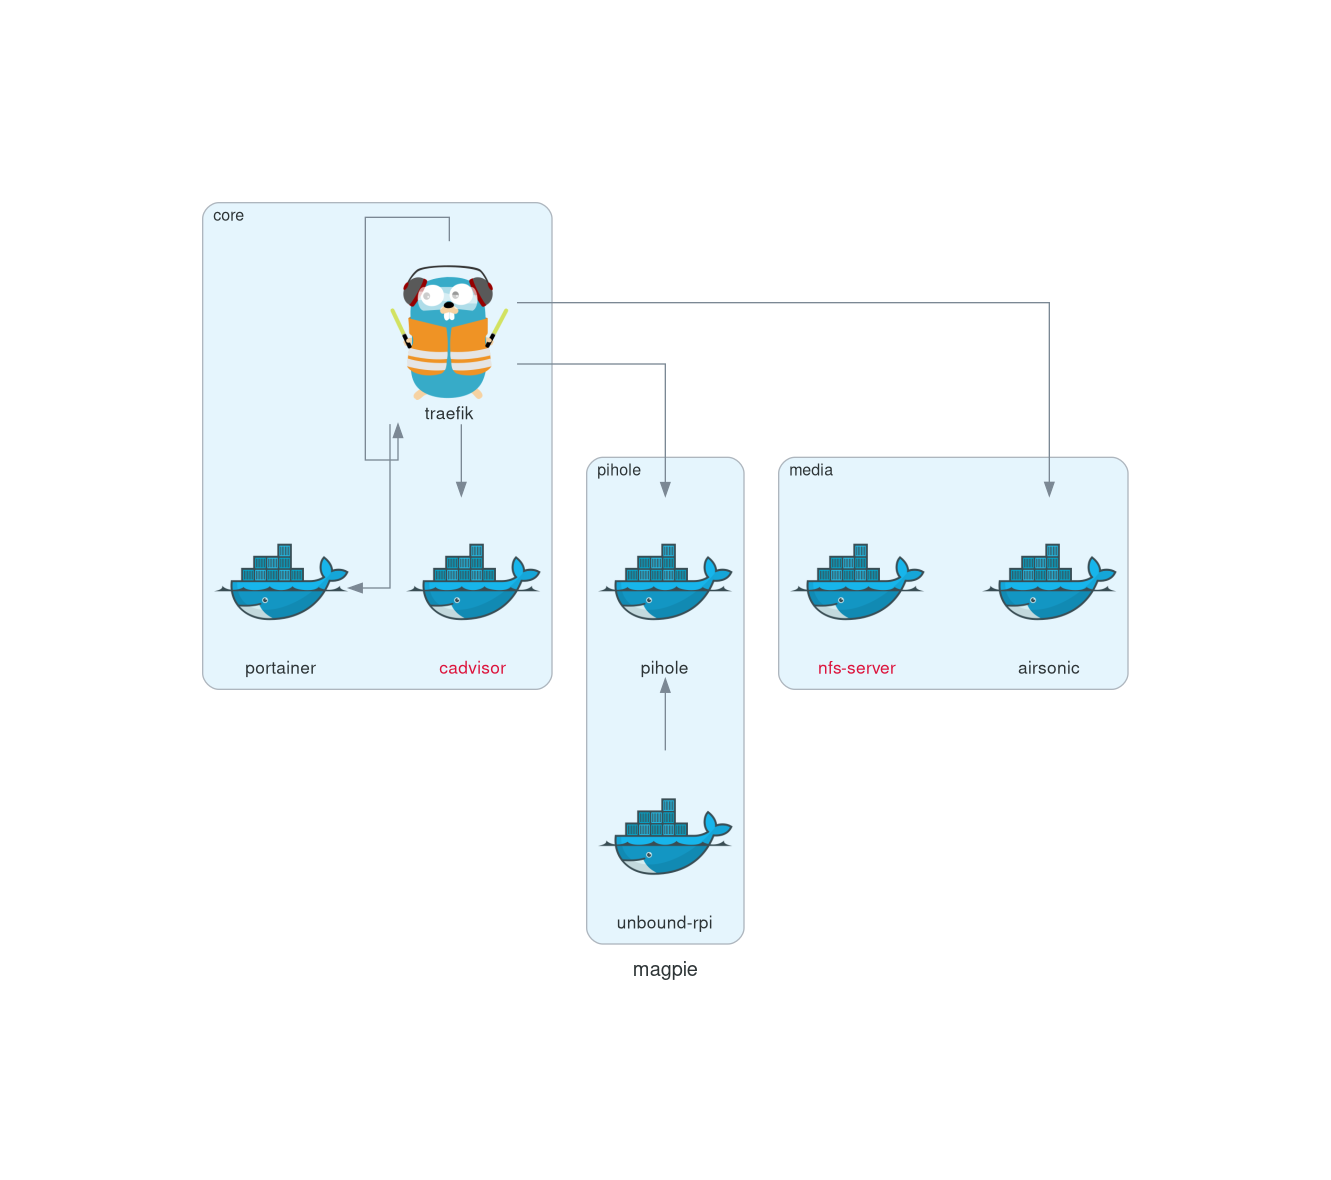
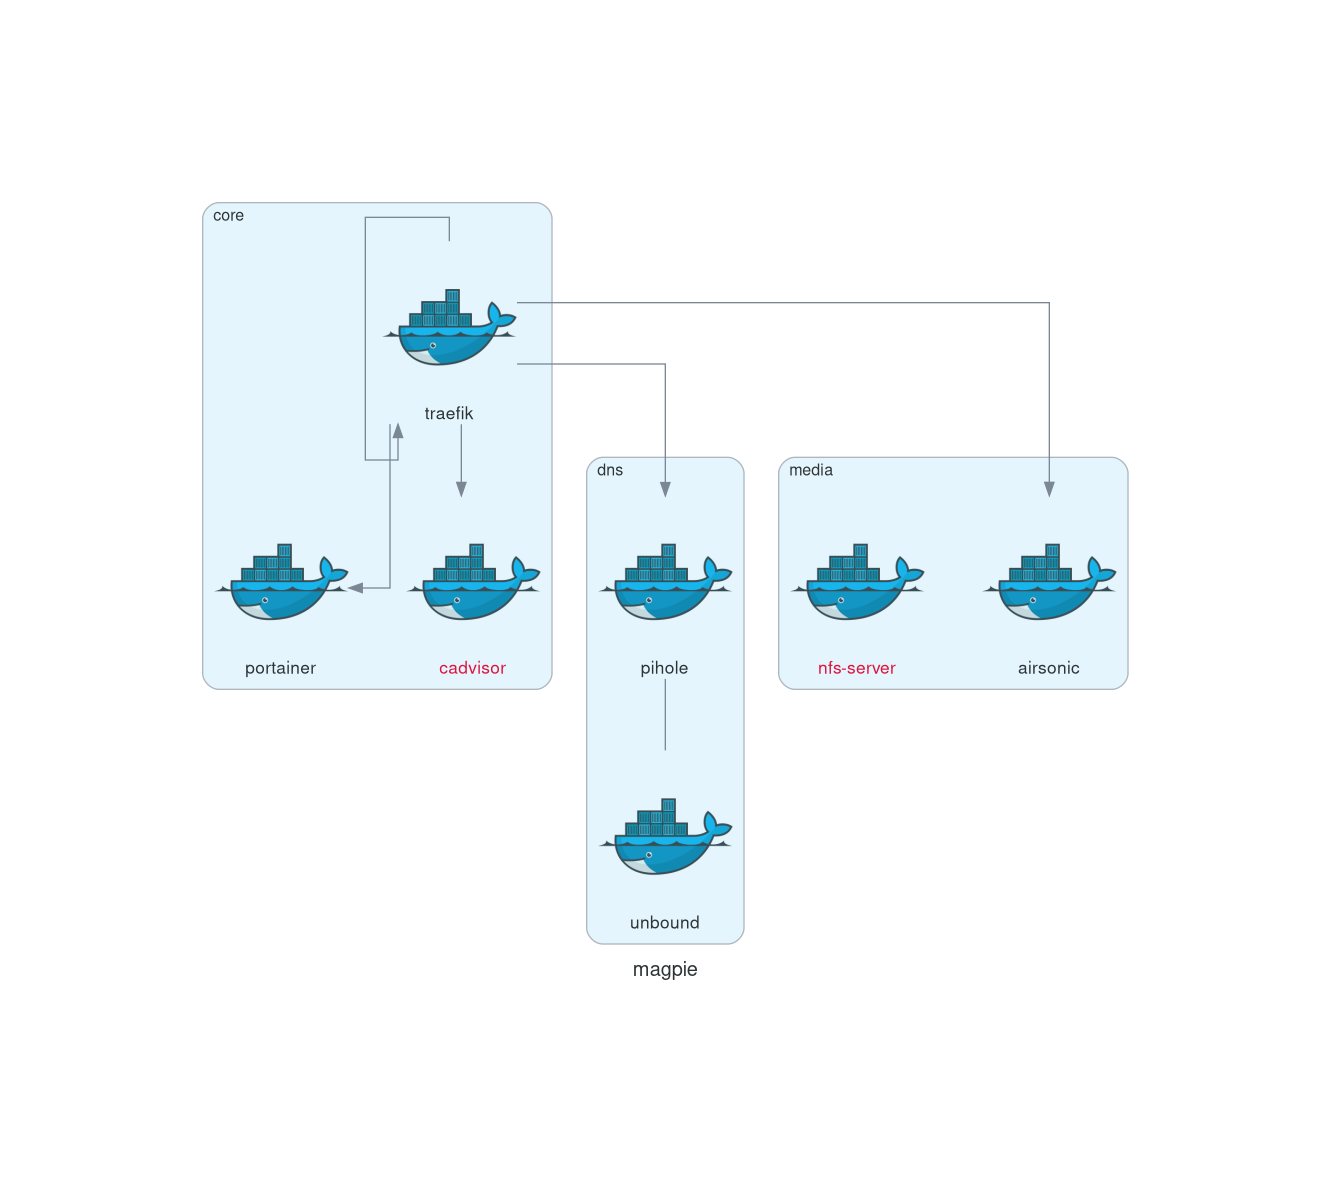
docs: update diagram

Changed region(s): [[0.2772, 0.2136, 0.4005, 0.3356], [0.4621, 0.7627, 0.5237, 0.7932]]

diff --git a/diagram.py b/diagram.py
@@ -1,16 +1,15 @@
 from diagrams import Cluster, Diagram
 from diagrams.onprem.container import Docker
-from diagrams.onprem.network import Traefik
 
 with Diagram("magpie", filename="assets/architecture", direction="TB", show=False):
     with Cluster("core"):
-        traefik = Traefik("traefik")
+        traefik = Docker("traefik")
         portainer = Docker("portainer")
         cadvisor = Docker("cadvisor", fontcolor="crimson")
 
-    with Cluster("pihole"):
+    with Cluster("dns"):
         pihole = Docker("pihole")
-        unbound = Docker("unbound-rpi")
+        unbound = Docker("unbound")
 
     with Cluster("media"):
         airsonic = Docker("airsonic")
@@ -30,4 +29,4 @@ with Diagram("magpie", filename="assets/architecture", direction="TB", show=Fals
     # cadvisor << list(all_nodes)
     # portainer - list(all_nodes)
 
-    pihole << unbound
+    pihole - unbound
